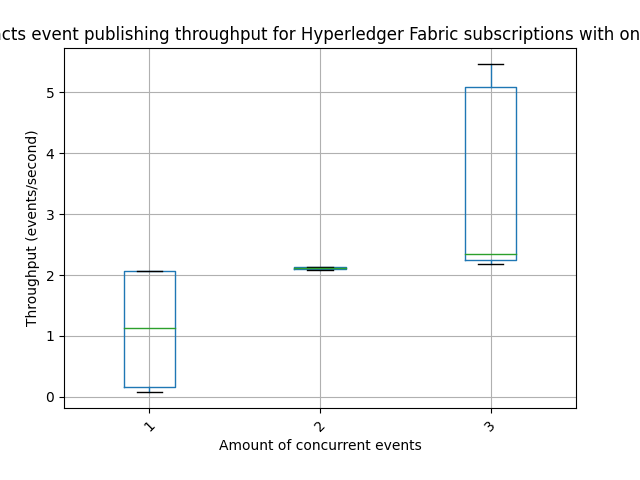
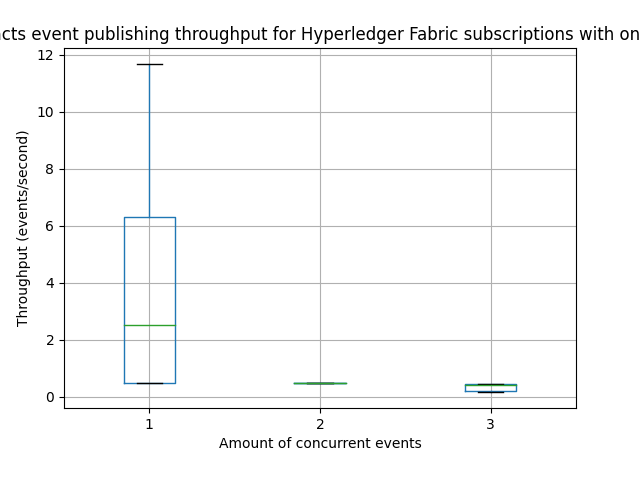
visualization

diff --git a/caseStudies/visualizePerformanceTestResults.py b/caseStudies/visualizePerformanceTestResults.py
@@ -47,6 +47,7 @@ def main():
     plt.savefig("inboundOraclePerformanceTests/hyperledgerSubscriptionsLatency.png")
 
     plt.xticks(rotation=45)
+    df.boxplot(column="throughput", by="subscriptions")
     plt.title("Boxplot of the artifacts event publishing throughput for Hyperledger Fabric subscriptions with one concurrent event ")
     plt.suptitle("")
     plt.xlabel("Amount of concurrent events")
@@ -79,6 +80,7 @@ def main():
     plt.xlabel("Amount of oracle subscriptions")
     plt.savefig("inboundOraclePerformanceTests/ethereumSubscriptionsLatency.png")
 
+    df.boxplot(column="throughput", by="subscriptions")
     plt.xticks(rotation=45)
     plt.title("Boxplot of the artifacts event publishing throughput for Ethereum subscriptions with one concurrent event ")
     plt.suptitle("")
